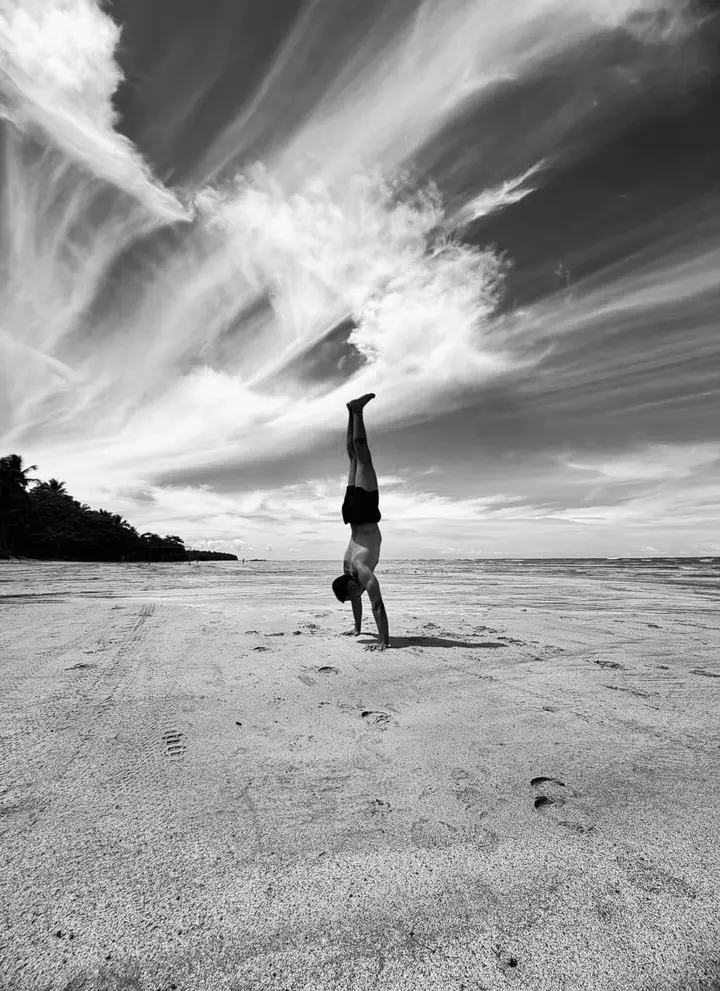
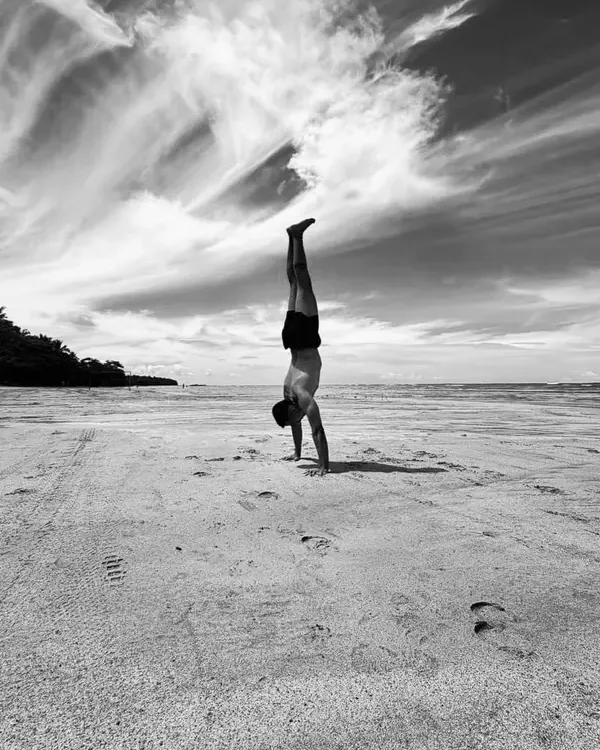
style: bordas sutis no futurista, número das conquistas na fonte do título e Quem fez novo

diff --git a/app/sobre/page.tsx b/app/sobre/page.tsx
@@ -126,18 +126,19 @@ export default function SobrePage() {
             <img
               src="/landing/quem-fez.webp"
               alt={`O autor do ${APP_NAME} fazendo parada de mão na praia`}
-              width={720}
-              height={991}
+              width={600}
+              height={750}
               loading="lazy"
               className="aspect-[4/5] w-full rounded-card object-cover"
             />
             <div>
               <h2 className={H2}>Quem fez</h2>
               <p className="mt-3 leading-relaxed text-muted">
-                Treino calistenia por conta própria desde o começo de 2024 e estudei muitos atletas de elite pra
-                aprender execuções e progressões. Atualmente meu foco é muscle-up, parada de mão e front lever.
-                Sou engenheiro e criei o {APP_NAME} em 2026 pra me ajudar a organizar meus treinos e progredir
-                com consistência. Sigo usando e atualizando. Sentiu falta de algo? Me manda um e-mail:{" "}
+                Treino calistenia por conta própria desde o começo de 2024. Sou um entusiasta: não sou coach e
+                não tenho formação na área, então estudei muitos atletas de elite pra aprender execuções e
+                progressões. Atualmente meu foco é muscle-up, parada de mão e front lever. Sou engenheiro e criei o {APP_NAME} em
+                2026 pra me ajudar a organizar meus treinos e progredir com consistência. Sigo usando e
+                atualizando. Sentiu falta de algo? Me manda um e-mail:{" "}
                 {CONTACT_URL ? (
                   <a href={CONTACT_URL} className="text-ac underline underline-offset-4">
                     {CONTACT_EMAIL}

diff --git a/app/globals.css b/app/globals.css
@@ -1188,6 +1188,32 @@ a {
     rgb(150 175 255 / 0.03)
   ) !important;
 }
+/* Bordas mais apagadas no futurista (pedido de 05/11, opção "Sutil + destaques" do
+   protótipo): com o filete de luz em cima, a borda cheia pesava. O card comum fica
+   abaixo do `--color-border` das linhas e campos, e os destaques mantêm a cor só pela
+   metade: quem segura o destaque é o fundo colorido. Vem depois do vidro e do
+   destaque porque a especificidade empata e a ordem decide. */
+:root[data-theme="futurista"] :is(.card, .glass):not(.glow, .glass-key, [class*="border-ac"]) {
+  border-color: rgb(170 195 255 / 0.08);
+}
+:root[data-theme="futurista"] :is(.card, .glow, .glass)::before {
+  background: linear-gradient(90deg, transparent, rgb(255 255 255 / 0.22), transparent);
+}
+:root[data-theme="futurista"] :is(.glow, .glass-key) {
+  border-color: color-mix(in oklab, var(--ac) 22%, transparent);
+}
+:root[data-theme="futurista"] .ach-badge {
+  border-color: color-mix(in oklab, var(--ac) 20%, transparent);
+}
+/* `!important` porque o recorde traz a borda dourada inline */
+:root[data-theme="futurista"] .ach-record {
+  border-color: color-mix(in oklab, var(--color-gold) 12%, rgb(170 195 255 / 0.08)) !important;
+}
+/* Número de conquista e recorde na fonte do título: o `.tnum` genérico trocava
+   pela mono. */
+:root[data-theme="futurista"] .stat-num {
+  font-family: var(--font-display);
+}
 
 /* Constância: o medidor em segmentos à esquerda e quanto falta pra semana. */
 :root:is([data-theme="futurista"], [data-theme="espaco"]) .consistency-gauge,

diff --git a/components/home/AchievementsCard.tsx b/components/home/AchievementsCard.tsx
@@ -40,7 +40,7 @@ export function AchievementsCard({ data }: { data: HomeAchievements }) {
     >
       <Link
         href="/metricas"
-        className="glass tap flex flex-col rounded-card border border-ac/40 bg-ac/14 px-3.5 py-2.5 active:scale-[0.99]"
+        className="glass ach-badge tap flex flex-col rounded-card border border-ac/40 bg-ac/14 px-3.5 py-2.5 active:scale-[0.99]"
       >
         <span className="flex items-center gap-1.5 font-mono text-2xs uppercase tracking-wide text-ac">
           <MedalIcon className="h-3.5 w-3.5" />
@@ -62,7 +62,7 @@ export function AchievementsCard({ data }: { data: HomeAchievements }) {
       {record && (
         <Link
           href="/metricas"
-          className="glass tap flex min-w-0 flex-col rounded-card border px-3.5 py-2.5 active:scale-[0.99]"
+          className="glass ach-record tap flex min-w-0 flex-col rounded-card border px-3.5 py-2.5 active:scale-[0.99]"
           style={{
             borderColor: "color-mix(in oklab, var(--color-gold) 25%, var(--color-border))",
             background: "color-mix(in oklab, var(--color-gold) 5%, var(--color-surface))",

diff --git a/docs/ACOMPANHAMENTO.md b/docs/ACOMPANHAMENTO.md
@@ -20,6 +20,14 @@ Cada etapa fecha quando **todos** os itens de aceite estão marcados.
 | 6 | Durabilidade (backup) | `[x]` |
 | 7 | Validação real (1 semana de uso) | `[ ]` ← **você** |
 
+> **Atualização (pós-v1.8, 2026-11-05, bordas sutis no futurista e Quem fez — 767 testes):** no tema
+> futurista, a borda dos cards comuns ficou mais apagada que a das linhas e campos, e o filete de luz em
+> cima mais fraco. Os destaques (próximo treino, exercício ativo, Conquista, Recorde) mantêm a cor da
+> borda pela metade, e o fundo colorido segura o destaque. Escolhido no protótipo entre três intensidades
+> ("Sutil + destaques"). O número de Conquista e Recorde passou pra fonte do título: o `.tnum` genérico
+> trocava pela mono. Na landing, Quem fez diz que o autor é entusiasta, não coach, e a foto foi cortada
+> pra ele aparecer maior.
+>
 > **Atualização (pós-v1.8, 2026-11-05, landing nova e canal de feedback — 767 testes):** a página
 > /sobre fala com quem vai de iniciante pra intermediário: abertura em tela cheia ("Saiba o que treinar
 > e quando subir de nível"), "Um nível de cada vez" com três níveis e a meta, aviso de novo nível,

diff --git a/docs/landing-copy.md b/docs/landing-copy.md
@@ -104,7 +104,7 @@ Quem fez
 
 [Texto. O e-mail é link]
 
-Treino calistenia por conta própria desde o começo de 2024 e estudei muitos atletas de elite pra aprender execuções e progressões. Atualmente meu foco é muscle-up, parada de mão e front lever. Sou engenheiro e criei o Gravks em 2026 pra me ajudar a organizar meus treinos e progredir com consistência. Sigo usando e atualizando. Sentiu falta de algo? Me manda um e-mail: uailabs.br@gmail.com
+Treino calistenia por conta própria desde o começo de 2024. Sou um entusiasta: não sou coach e não tenho formação na área, então estudei muitos atletas de elite pra aprender execuções e progressões. Atualmente meu foco é muscle-up, parada de mão e front lever. Sou engenheiro e criei o Gravks em 2026 pra me ajudar a organizar meus treinos e progredir com consistência. Sigo usando e atualizando. Sentiu falta de algo? Me manda um e-mail: uailabs.br@gmail.com
 
 ## 7. Perguntas
 
